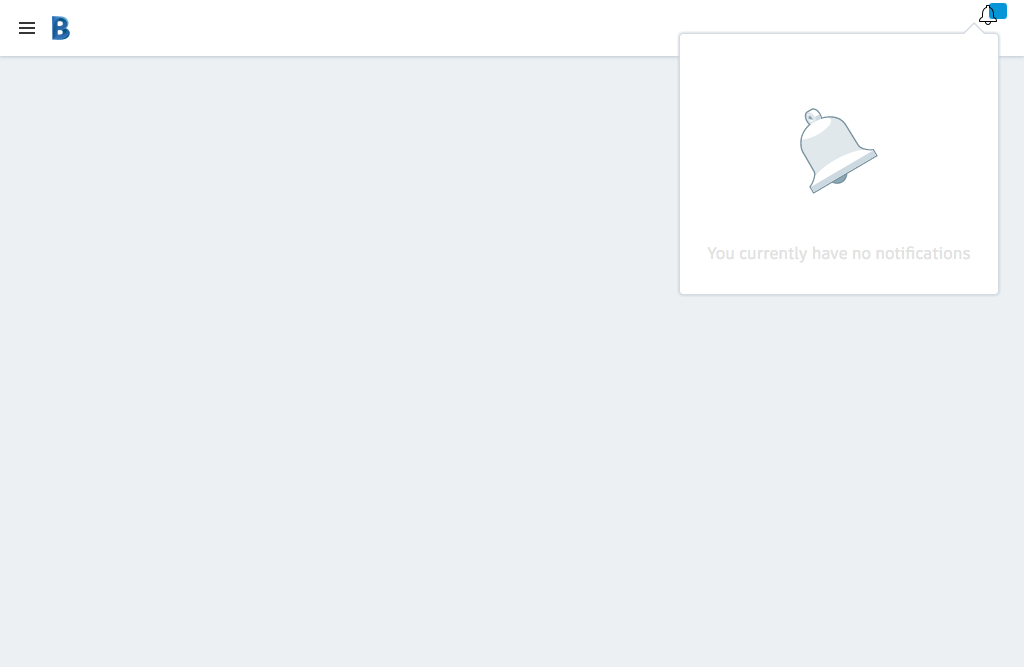
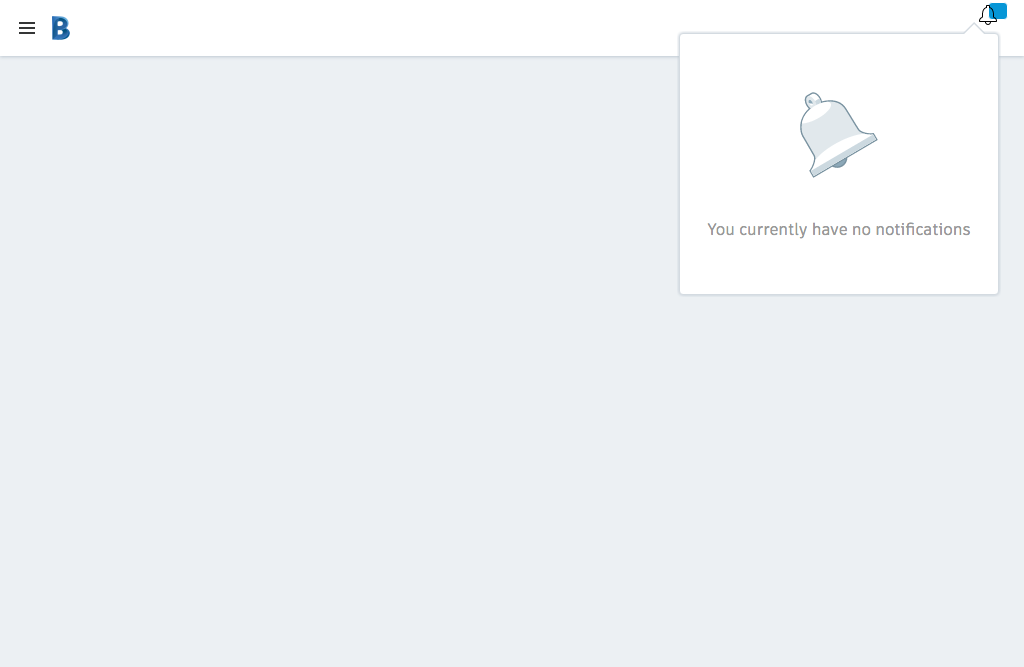
Address PR comments

Changed region(s): [[0.6875, 0.3298, 0.9375, 0.3898], [0.7812, 0.1199, 0.875, 0.2999]]

diff --git a/packages/vanilla/src/components/global-nav/top-nav/notifications/_list/_list.scss b/packages/vanilla/src/components/global-nav/top-nav/notifications/_list/_list.scss
@@ -12,14 +12,14 @@
       content: url("./bell.svg");
       display: flex;
       justify-content: center;
-      padding: 4em 0 2em 0;
+      padding: 48px 0 24px 0;
     }
 
     &:after {
       content: 'You currently have no notifications';
       display: flex;
       justify-content: center;
-      color: color(hig-gray-20);
+      color: color(hig-gray-40);
     }
   }
 }
